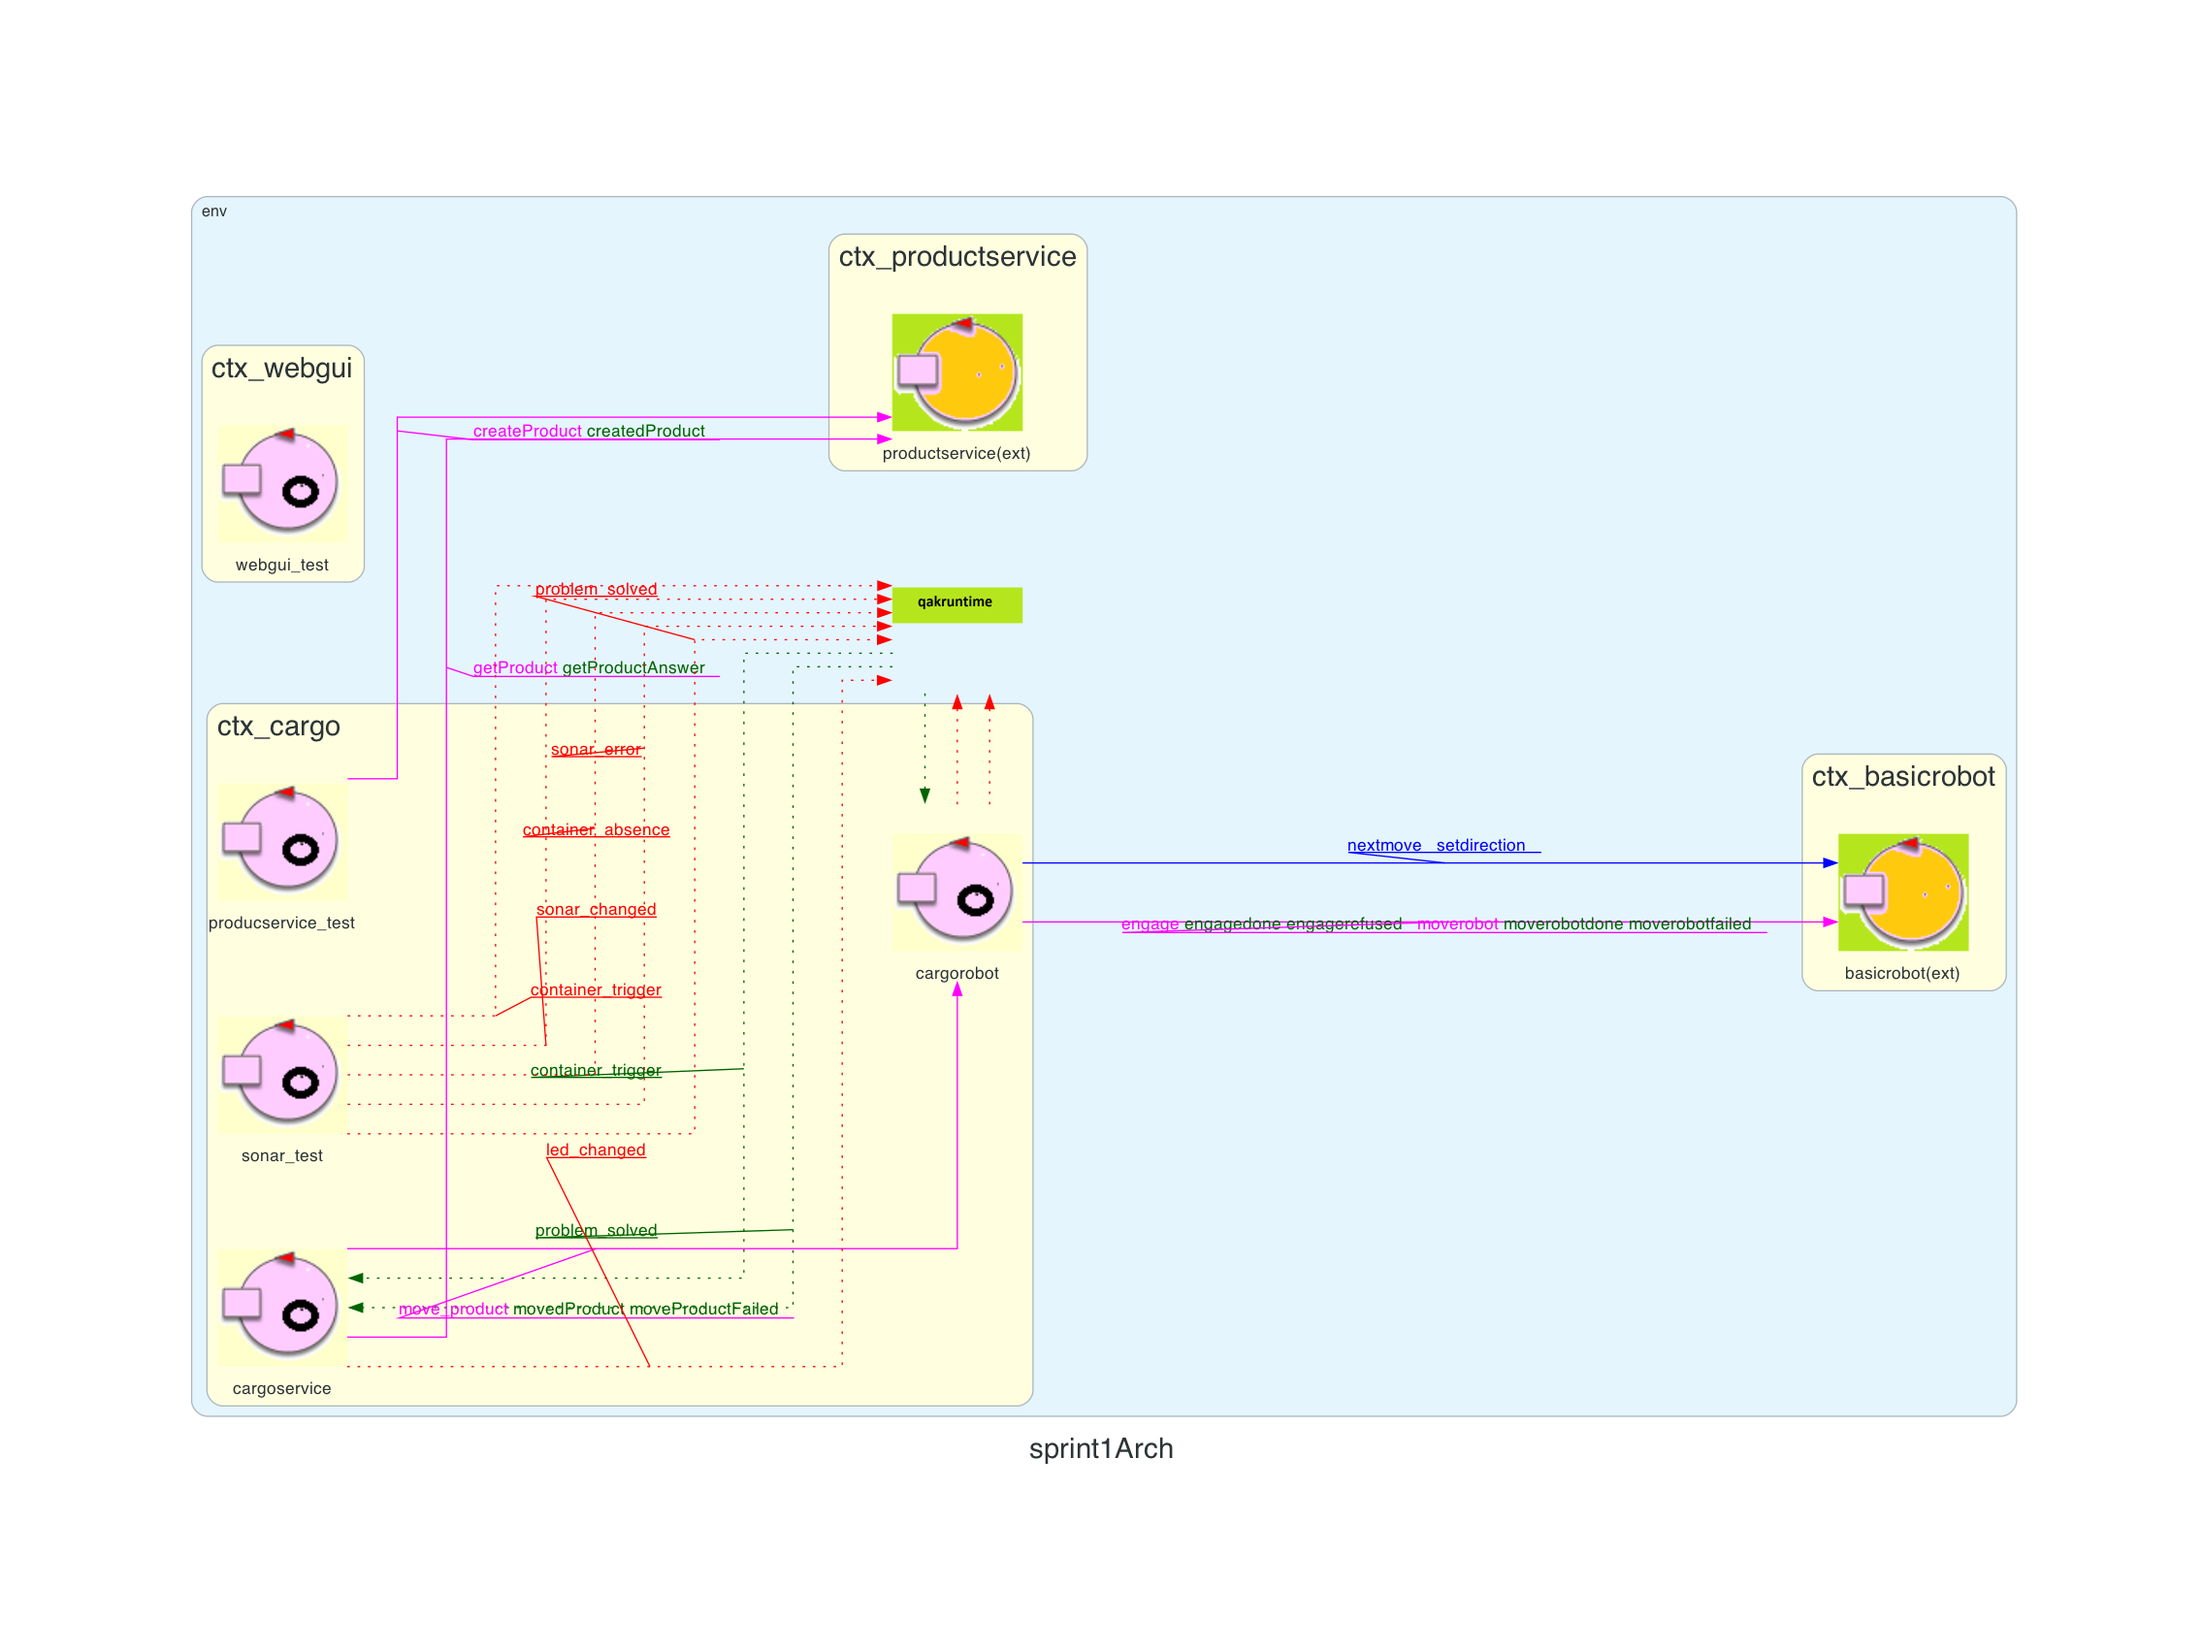
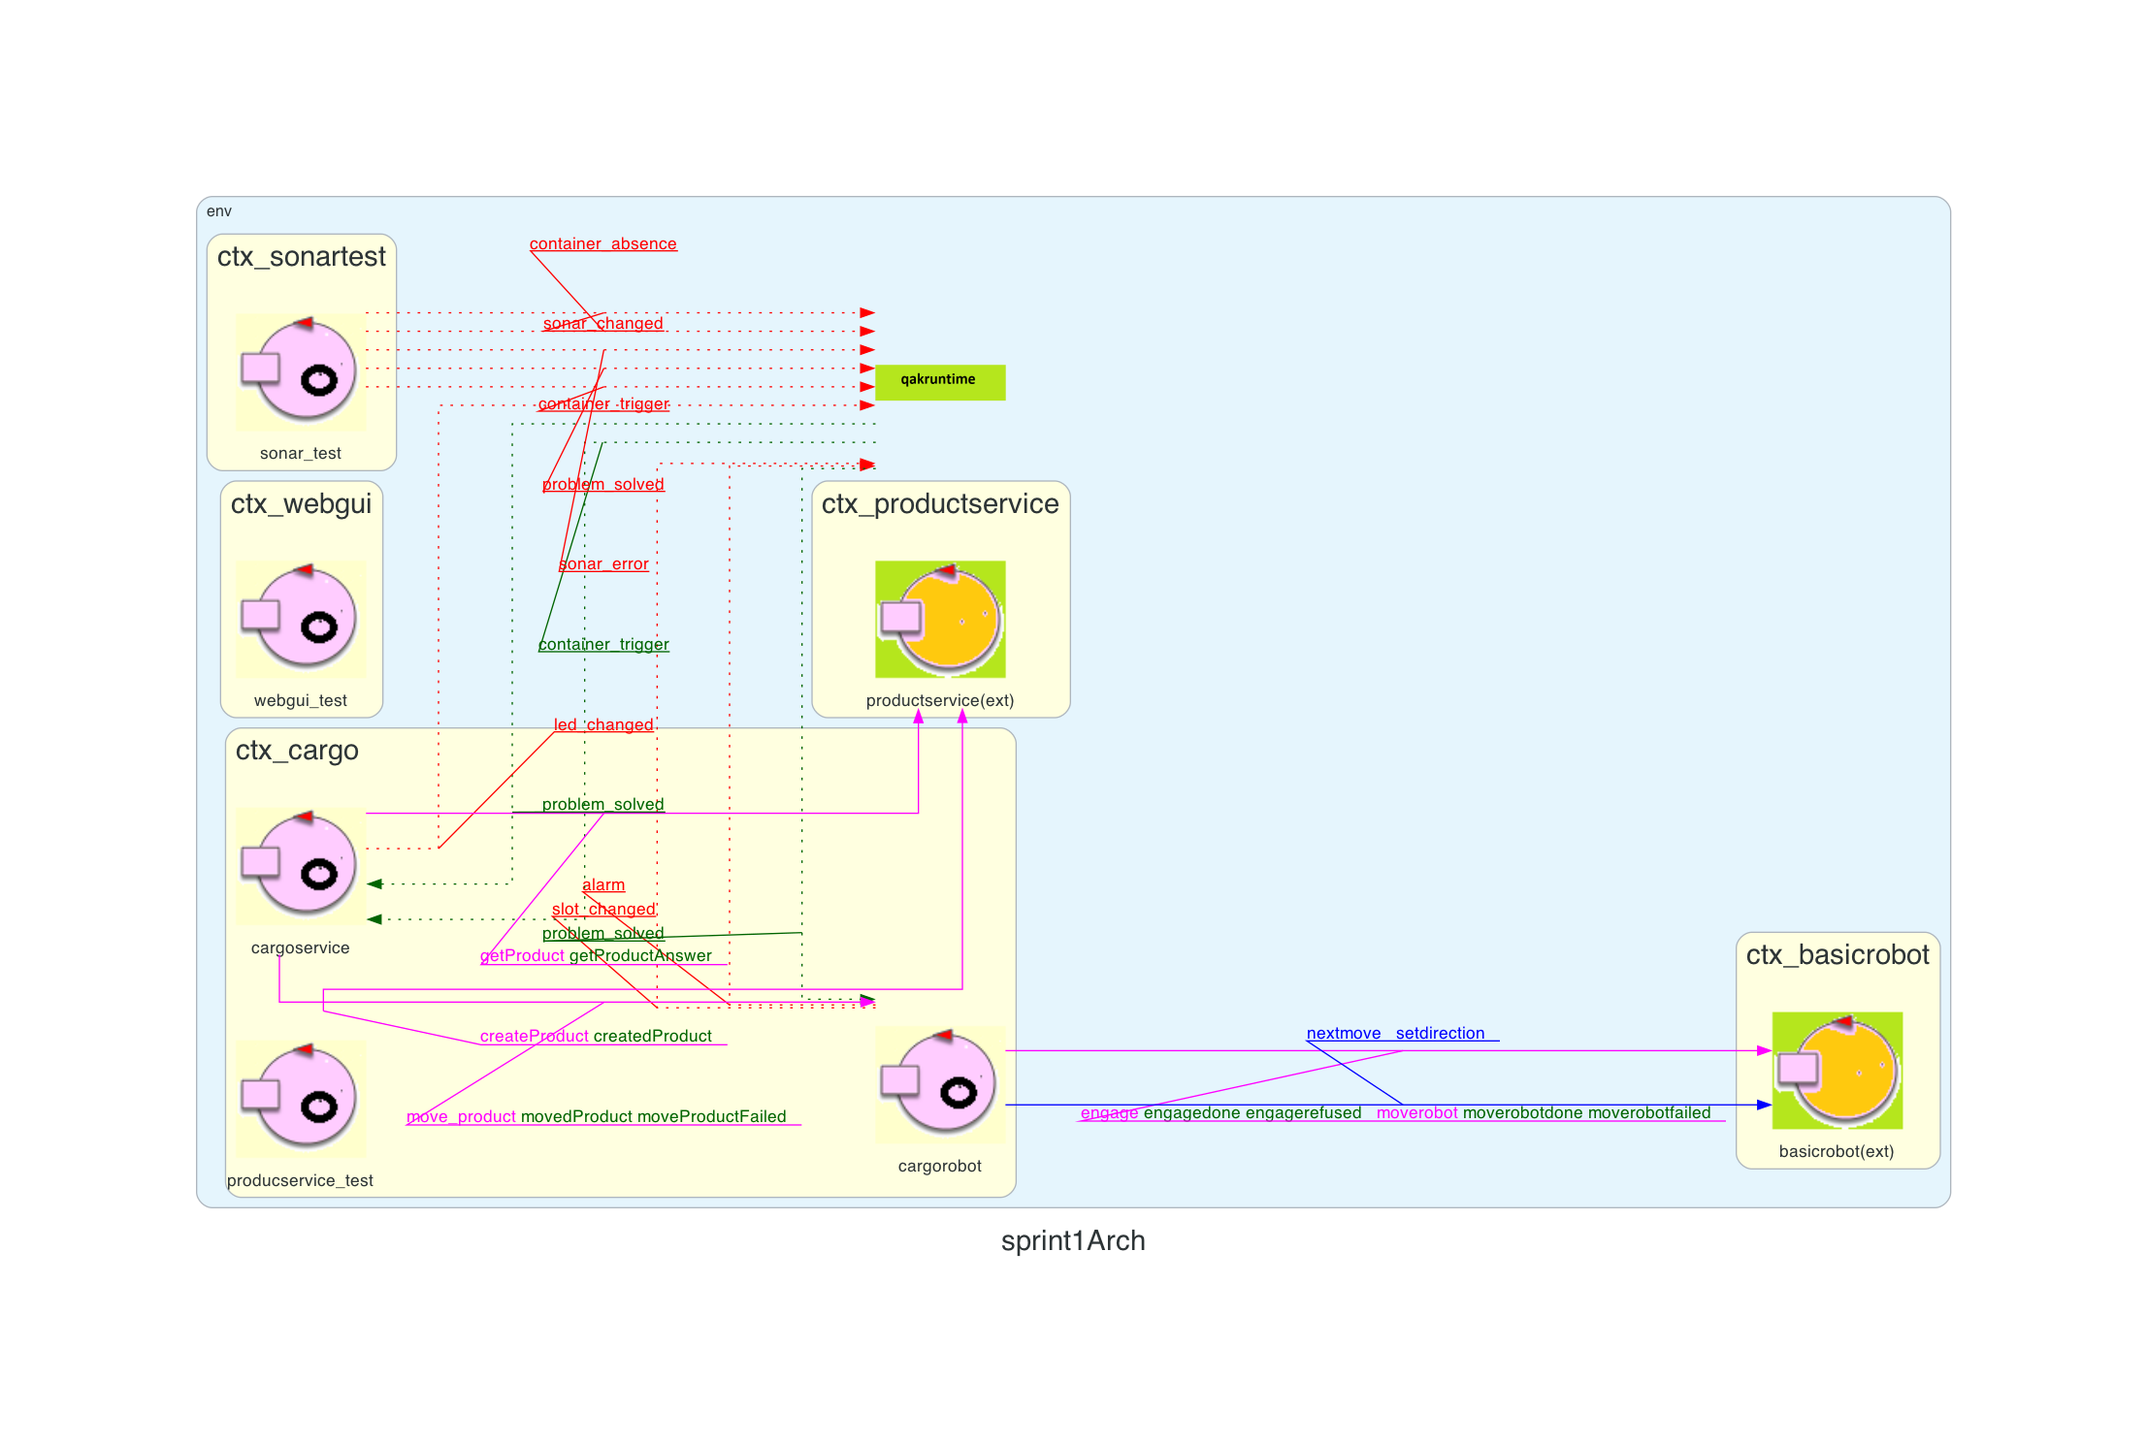
correzione immagine architettura finale

Changed region(s): [[0.0624, 0.0927, 0.9354, 0.8959], [0.5924, 0.4943, 0.6859, 0.5252]]

diff --git a/sprint1/Arch_sprint1.py b/sprint1/Arch_sprint1.py
@@ -33,9 +33,10 @@ with Diagram('sprint1Arch', show=False, outformat='png', graph_attr=graphattr) a
           cargorobot=Custom('cargorobot','./qakicons/symActorWithobjSmall.png')
           cargoservice=Custom('cargoservice','./qakicons/symActorWithobjSmall.png')
           producservice_test=Custom('producservice_test','./qakicons/symActorWithobjSmall.png')
-          sonar_test=Custom('sonar_test','./qakicons/symActorWithobjSmall.png')
      with Cluster('ctx_webgui', graph_attr=nodeattr):
           webgui_test=Custom('webgui_test','./qakicons/symActorWithobjSmall.png')
+     with Cluster('ctx_sonartest', graph_attr=nodeattr):
+          sonar_test=Custom('sonar_test','./qakicons/symActorWithobjSmall.png')
      cargorobot >> Edge( label='alarm', **eventedgeattr, decorate='true', fontcolor='red') >> sys
      sys >> Edge( label='problem_solved', **evattr, decorate='true', fontcolor='darkgreen') >> cargorobot
      cargorobot >> Edge( label='slot_changed', **eventedgeattr, decorate='true', fontcolor='red') >> sys

diff --git a/sprint1/userDocs/CapelliCherguiVenieri_Sprint1.md b/sprint1/userDocs/CapelliCherguiVenieri_Sprint1.md
@@ -145,19 +145,30 @@ Come detto in precedenza ProductService è un componente già fornito dal commit
 
 ## Messaggi tra componenti
 
-### Contesti //DA CORREGGERE
+### Contesti
 ```
-ctx_cargo (localhost:8000)          [CORE DEL SISTEMA]
+Context ctx_productservice	ip [host="cargoserviceqak" port=8111]
+Context ctx_basicrobot ip [host="basicrobot24" port=8020] 
+Context ctx_cargo	ip [host="localhost" port=8000]
+Context ctx_webgui ip [host="webgui" port=8998] 
+Context ctx_sonarhost ip[host="sonarhost" port=8999]
+
+ctx_cargo (host="localhost" port=8000)          
 ├── cargorobot
 ├── cargoservice
-├── test
-└── sonar_test
+└──  productservice_test
 
-ctx_basicrobot (127.0.0.1:8020)     
+ctx_basicrobot (host="basicrobot24" port=8020)     		
 └── basicrobot (ExternalQActor)
 
-ctx_cargoservice (127.0.0.1:8111)   [SERVIZIO PRODOTTI]
+ctx_productservice (host="cargoserviceqak" port=8111)  
 └── productservice (ExternalQActor)
+
+ctx_webgui (host="webgui" port=8998)
+└── webgui_test
+
+ctx_sonar (host="sonarhost" port=8999)
+└── sonar_test
 ```
 
 #### Messaggi Basicrobot
